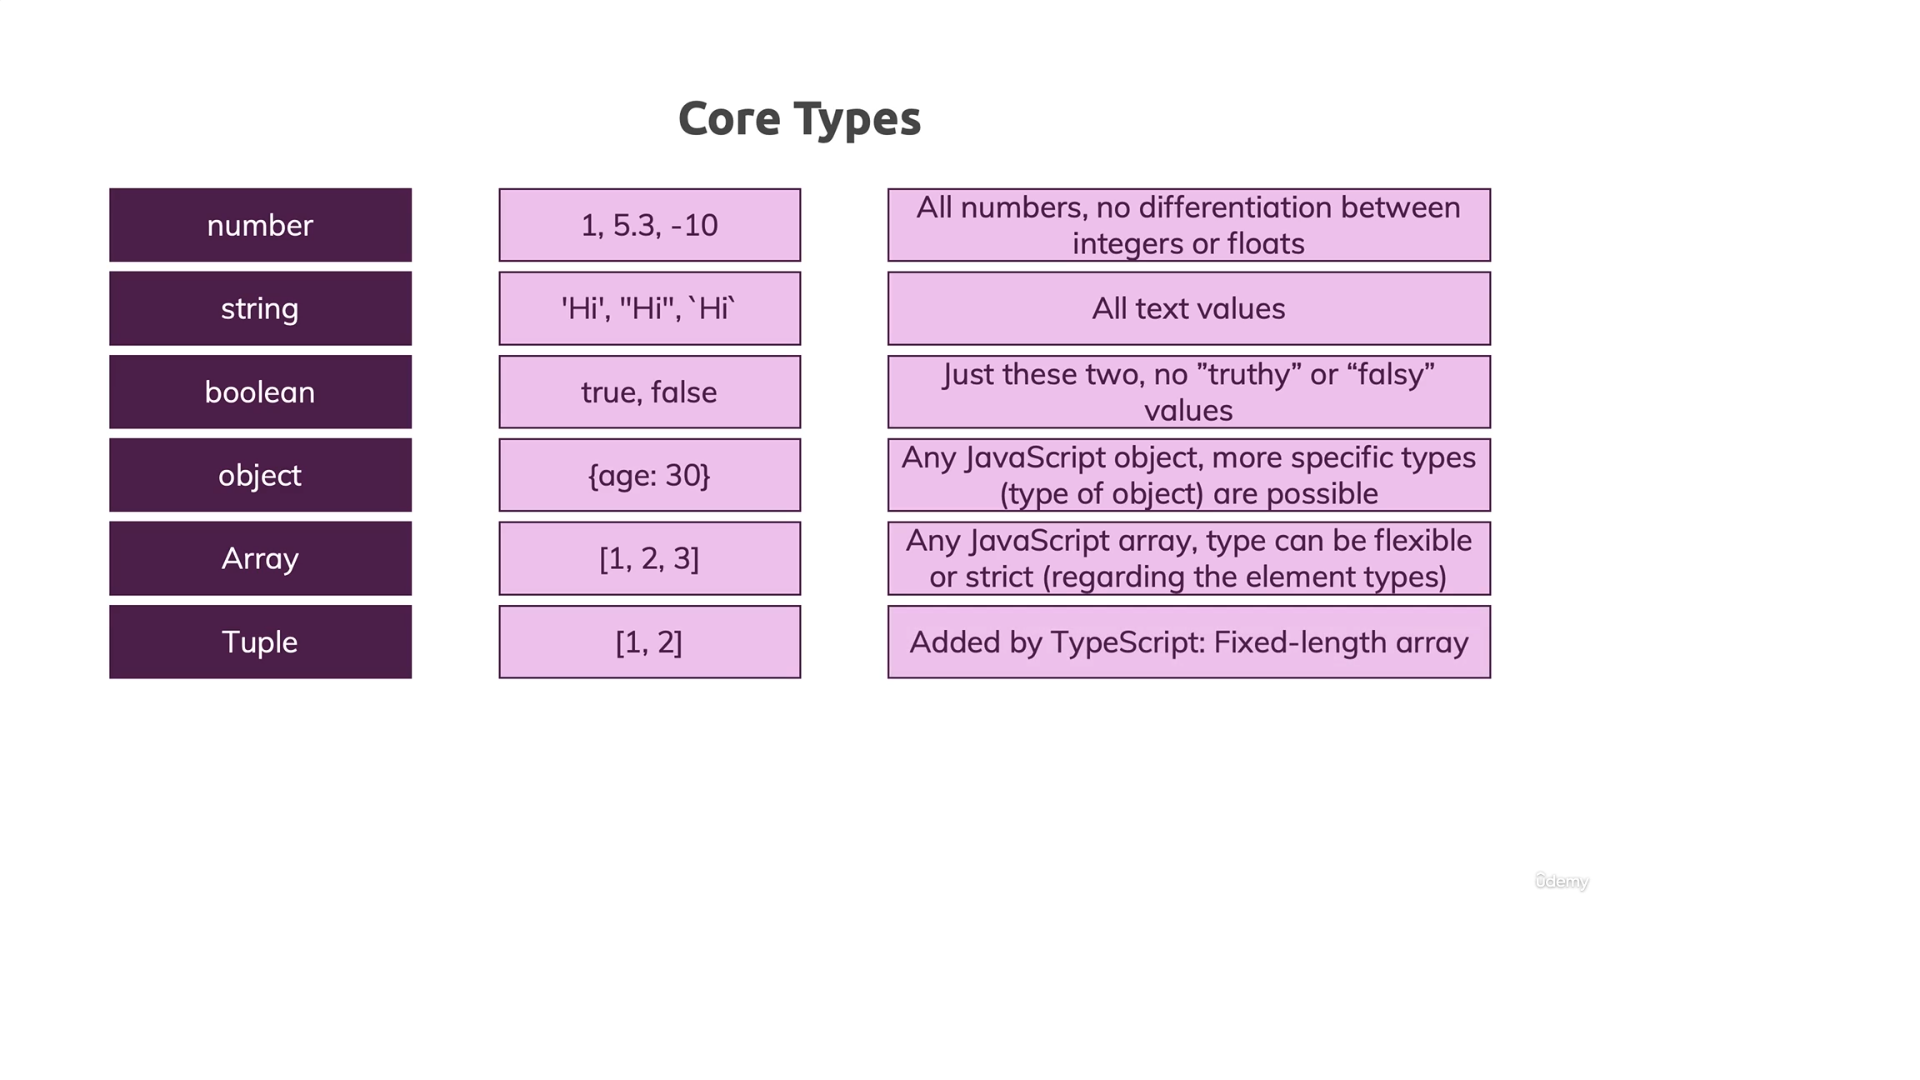
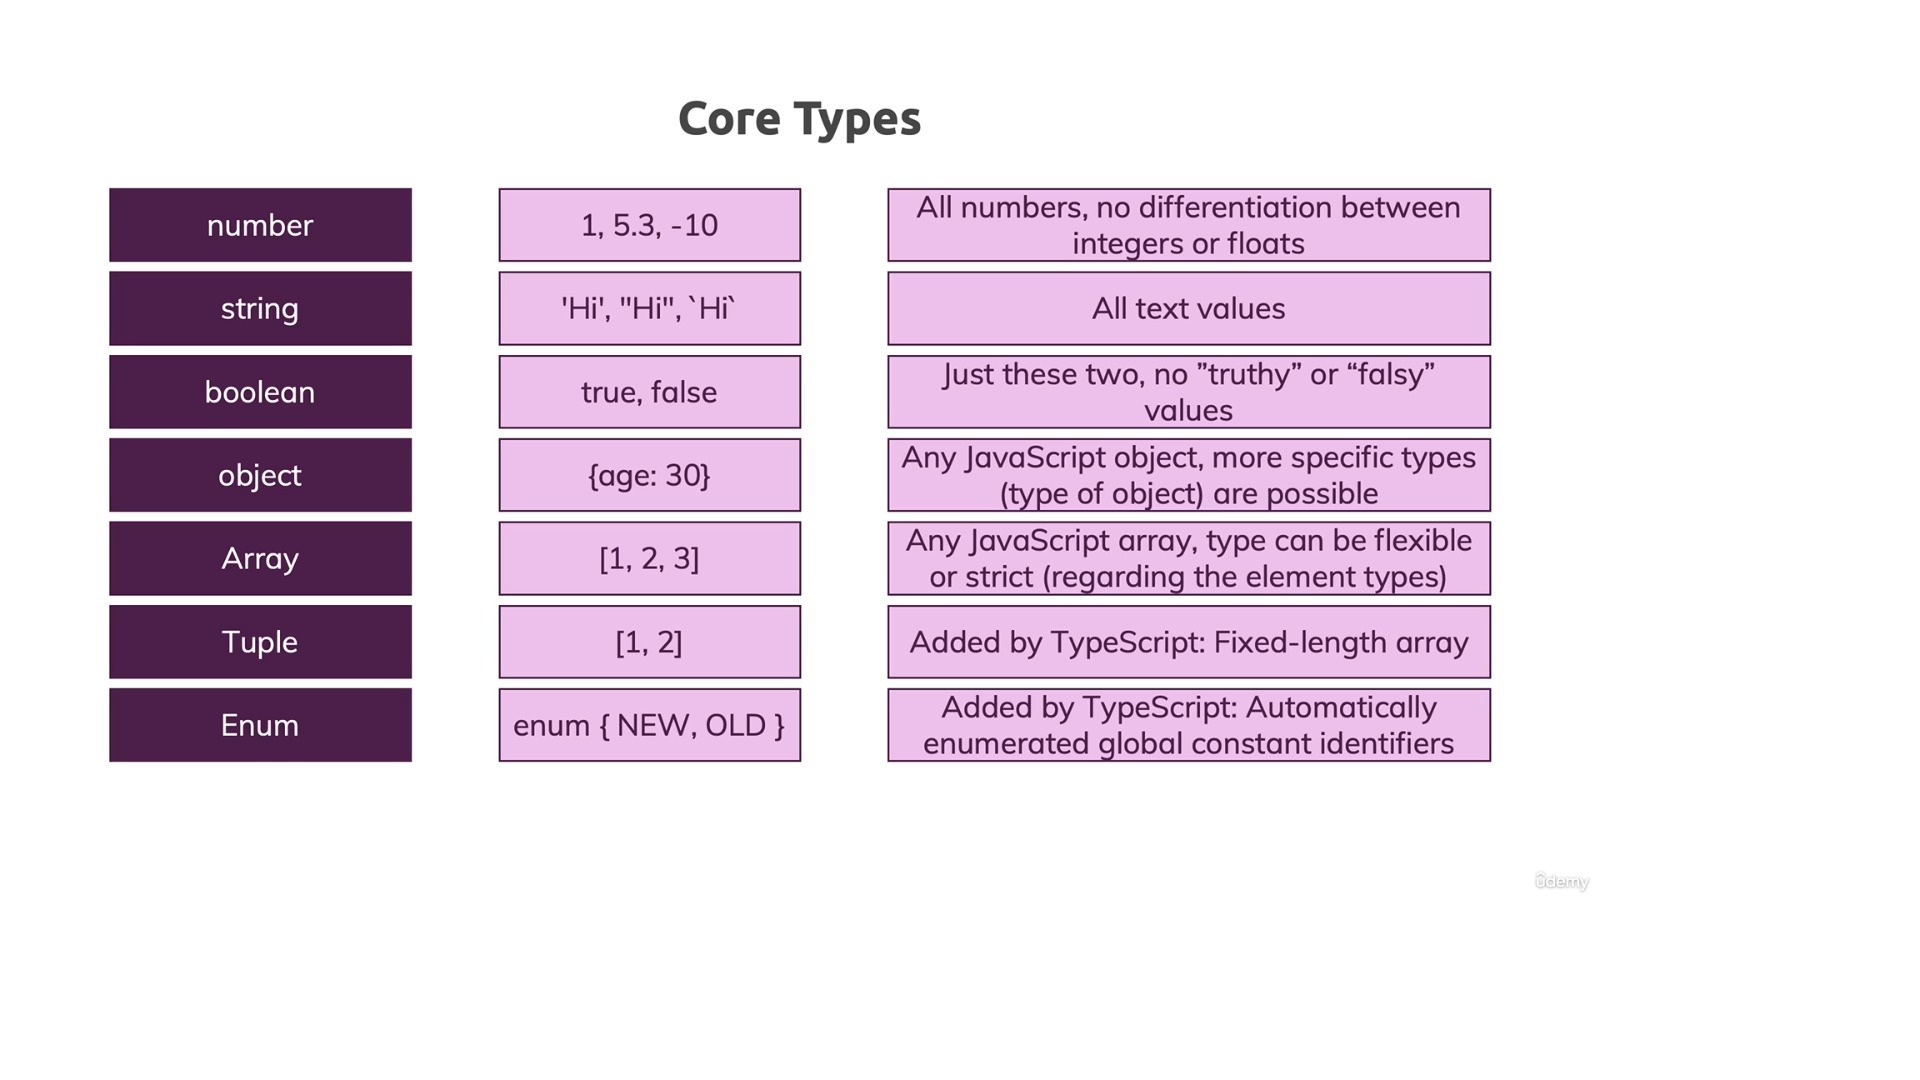
enums in typescript

Changed region(s): [[0.25, 0.6111, 0.7812, 0.7333], [0.0312, 0.6111, 0.2188, 0.7333]]

diff --git a/02_TypeScript_Basics/01_Course_Project_Setup/app.ts b/02_TypeScript_Basics/01_Course_Project_Setup/app.ts
@@ -199,21 +199,60 @@ Arrays Types */
 /* ---------------------------------------------------------
 Tuples Types */
 
-const person: {
-  name: string;
-  age: number;
-  hobbies: string[];
-  role: [number, string];
-} = {
+// const person: {
+//   name: string;
+//   age: number;
+//   hobbies: string[];
+//   role: [number, string];
+// } = {
+//   name: "Daniel",
+//   age: 38,
+//   hobbies: ["sports", "cooking", "flying"],
+//   role: [2, "author"],
+// };
+
+// person.role.push("admin") // push() is ONLY accepted in Tuple
+// // person.role =[0, "admin","user") // X Incorrect, can't altere Tuple
+// // person.role[1] = 10 // Incorrect, typle can't be altered
+
+// console.log(person)
+
+/* ---------------------------------------------------------
+Enum Types */
+
+// Approach by hand: tadeious
+
+// const ADMIN = 0;
+// const READ_ONLY = 1;
+// const AUTHOR = 2;
+
+// const person = {
+//   name: "Daniel",
+//   age: 38,
+//   hobbies: ["sports", "cooking", "flying"],
+//   role: ADMIN,
+// };
+
+// console.log(person.role);
+
+// Using tuples
+
+// enum Role { ADMIN, READ_ONLY, AUTHOR} // Correct
+//enum Role { ADMIN = 12, READ_ONLY = 2, AUTHOR= 23} // On numbering logic :  Correct
+enum Role { ADMIN="ADMIN", READ_ONLY= 100, AUTHOR} // Mixing : Correct
+
+const person = {
   name: "Daniel",
   age: 38,
   hobbies: ["sports", "cooking", "flying"],
-  role: [2, "author"],
+  role: Role.ADMIN,
 };
 
+console.log(person.role);
 
-person.role.push("admin") // push() is ONLY accepted in Tuple
-// person.role =[0, "admin","user") // X Incorrect, can't altere Tuple
-// person.role[1] = 10 // Incorrect, typle can't be altered
-
-console.log(person)
+if(person.role === Role.ADMIN) {
+  console.log("User is Admin")
+}
+if(person.role !== Role.AUTHOR) {
+  console.log("User is NOT author")
+}
